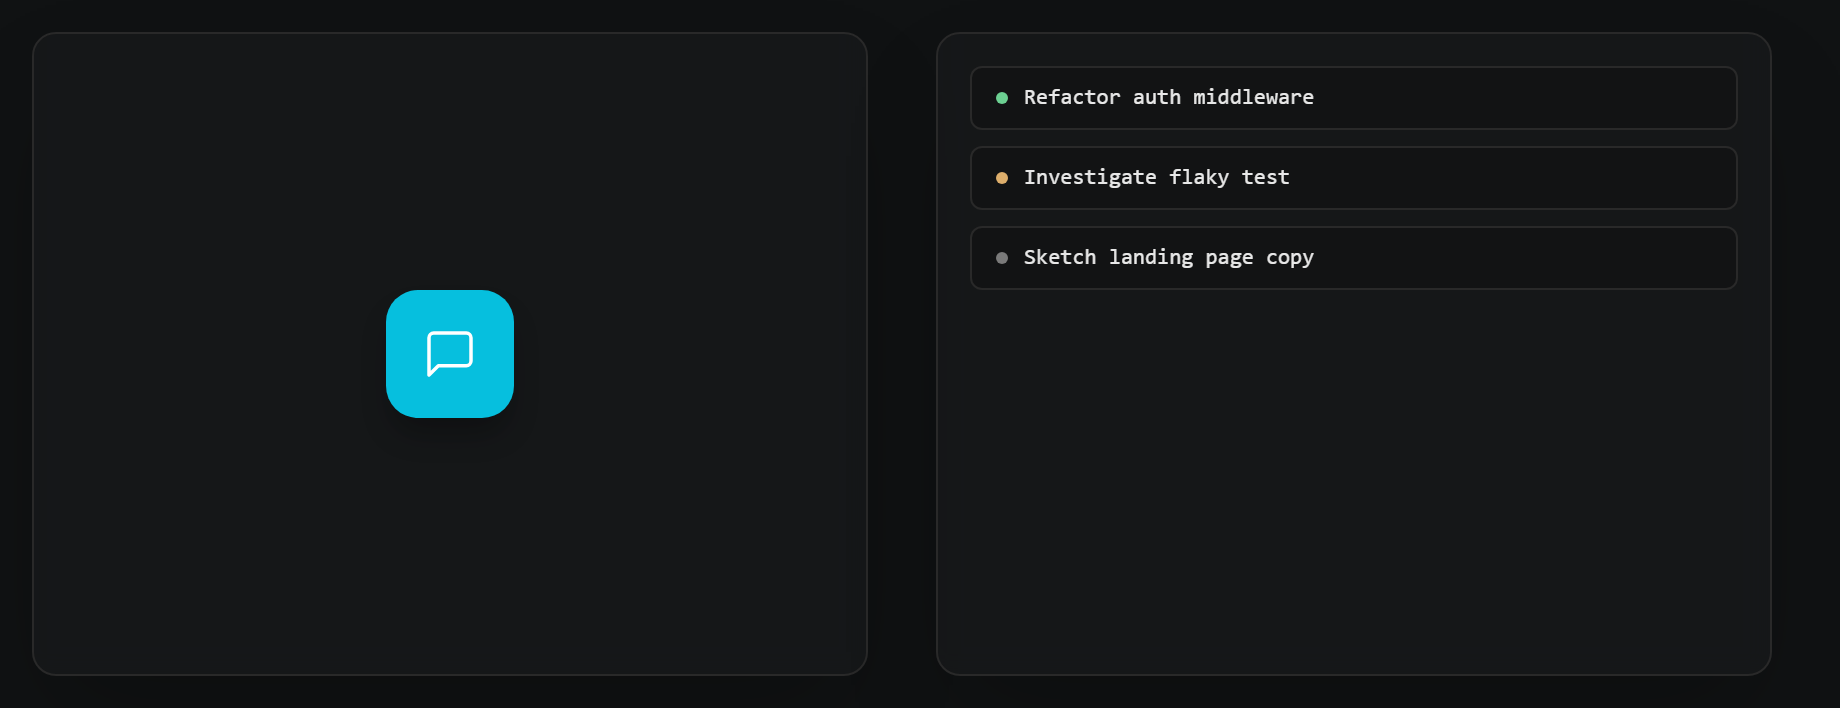
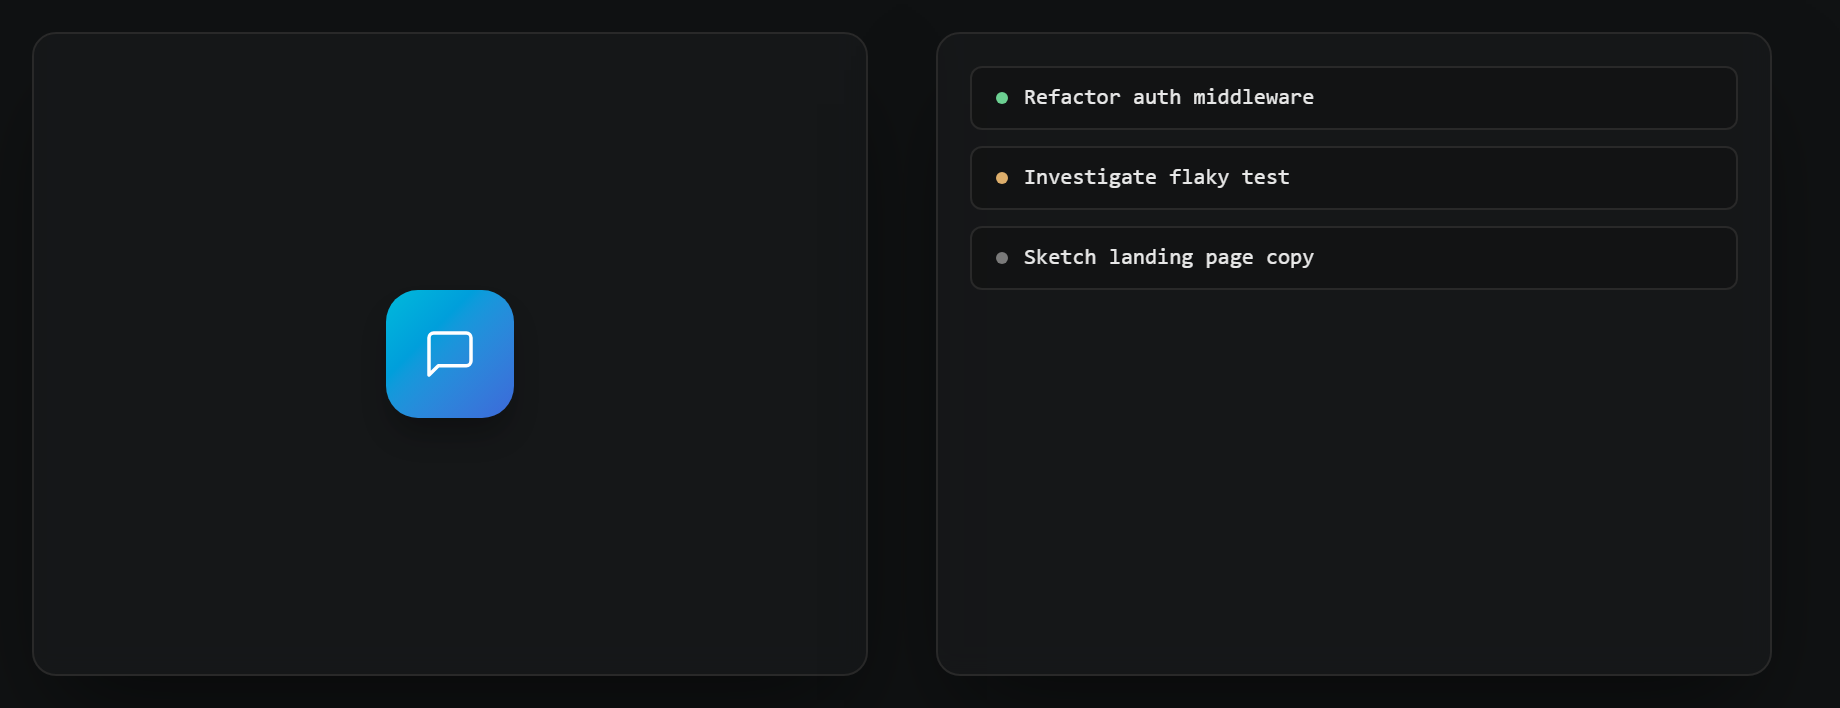
ui(tutorial): restore #293 welcome gradient + card shadow via tokens
Reviewer flagged the original #293 cleanup as a visible regression:
- the welcome icon's cyan->indigo gradient was collapsed to a flat
  bg-accent (single hue, lost depth)
- the deep, warm 0_24px_48px_-12px card shadow was replaced with the
  Tailwind shadow-xl preset, a much shallower drop.

Both were token-equivalent in code but not pixel-equivalent. #293's
goal was specifically to remove raw oklch() literals from class names,
so the fix is to keep the values as ornamental tokens and let
@theme resolve them per palette.

global.css gains two new tokens in both the dark default and the
html.theme-light override:
- --gradient-tutorial-welcome (cyan -> indigo, 135deg; light variant
  drops one lightness step so the white message glyph keeps AA on
  near-white surfaces)
- --shadow-tutorial-card (0 24px 48px -12px black/0.5 dark; warm
  oklch fade in light)

Tutorial.tsx applies them via inline style={{ background: 'var(...)' }}
and style={{ boxShadow: 'var(...)' }} — class-name route would need
arbitrary-value resolution and Tailwind v4 doesn't generate utilities
for var()-driven gradients/shadows for free. grep oklch
src/components/Tutorial* stays at zero.

probe-render-banner-switch-tutorial-287.mjs updated:
- TOKENS_CSS now declares the same two new variables so the static
  HTML probe stays in sync with global.css
- the .after welcome square + .tut-card shadow rules switch to var()
  references, restoring visual parity with the .before baseline
[…]

Changed region(s): [[0.1859, 0.404, 0.2788, 0.5904]]

diff --git a/src/styles/global.css b/src/styles/global.css
@@ -75,6 +75,14 @@
   --shadow-drag-overlay:
     0 12px 32px -8px oklch(0 0 0 / 0.5),
     0 0 0 1px oklch(1 0 0 / 0.08);
+  /* Tutorial-only ornamentals (#293). The first-run welcome icon needs a
+     two-stop accent gradient (cyan -> indigo) and the visual cards need a
+     deep, warm drop shadow that reads against the dark app surface. These
+     are too specific to belong in --color-accent / --surface-shadow but we
+     still want them as tokens so the light-mode override flows through. */
+  --gradient-tutorial-welcome:
+    linear-gradient(135deg, oklch(0.72 0.14 215) 0%, oklch(0.55 0.18 265) 100%);
+  --shadow-tutorial-card: 0 24px 48px -12px oklch(0 0 0 / 0.5);
   /* 2px focus halo. Token-driven so light mode can pull saturation/lightness
      down — the dark cyan stays vibrant on dark surfaces, but reads as a
      glaring teal smear on near-white. Each mode picks its own oklch(). */
@@ -324,6 +332,13 @@ html.theme-light {
   --shadow-drag-overlay:
     0 12px 32px -8px oklch(0.4 0.02 60 / 0.18),
     0 0 0 1px oklch(0 0 0 / 0.06);
+  /* Tutorial ornamentals — light variant. Drop one lightness step so the
+     white message glyph keeps AA contrast on the welcome bubble, and swap
+     the deep black card shadow for a softer warm one to match the rest of
+     the light surface stack. */
+  --gradient-tutorial-welcome:
+    linear-gradient(135deg, oklch(0.62 0.14 215) 0%, oklch(0.48 0.18 265) 100%);
+  --shadow-tutorial-card: 0 24px 48px -12px oklch(0.4 0.02 60 / 0.20);
   --color-focus-ring: oklch(0.55 0.15 215 / 0.55); /* a11y: boosted opacity for inline-rename + input focus visibility in light mode */
 
   --color-bg-app-foreground: var(--color-fg-primary);

diff --git a/src/components/Tutorial.tsx b/src/components/Tutorial.tsx
@@ -148,7 +148,10 @@ export function Tutorial({ onNewSession, onImport, onSkip }: Props) {
 
 function VisualCard({ children }: { children: React.ReactNode }) {
   return (
-    <div className="relative w-full max-w-sm aspect-[4/3] rounded-xl border border-border-subtle bg-bg-elevated/60 backdrop-blur p-4 shadow-xl">
+    <div
+      className="relative w-full max-w-sm aspect-[4/3] rounded-xl border border-border-subtle bg-bg-elevated/60 backdrop-blur p-4"
+      style={{ boxShadow: 'var(--shadow-tutorial-card)' }}
+    >
       {children}
     </div>
   );
@@ -162,7 +165,8 @@ function WelcomeVisual() {
           initial={{ scale: 0.9, opacity: 0 }}
           animate={{ scale: 1, opacity: 1 }}
           transition={{ delay: 0.15, duration: 0.4, ease: [0.32, 0.72, 0, 1] }}
-          className="flex h-16 w-16 items-center justify-center rounded-2xl bg-accent shadow-lg"
+          className="flex h-16 w-16 items-center justify-center rounded-2xl shadow-lg"
+          style={{ background: 'var(--gradient-tutorial-welcome)' }}
         >
           <MessageSquare size={28} className="text-white stroke-[1.5]" />
         </motion.div>

diff --git a/dogfood-logs/banner-switch-tutorial-287/README.md b/dogfood-logs/banner-switch-tutorial-287/README.md
@@ -27,9 +27,14 @@ primitive with track + thumb, announced as "switch".
 ## #293 — Tutorial raw oklch -> tokens
 
 Tutorial visuals previously hard-coded raw `oklch()` color literals (welcome
-gradient, session-row state dots, drop shadow). After: replaced with semantic
-tokens (`bg-accent`, `bg-state-running`, `bg-state-waiting`, `shadow-xl`)
-so light-theme overrides flow through automatically.
+gradient, session-row state dots, drop shadow). After: state dots ride the
+existing `--color-state-running` / `--color-state-waiting` tokens; the
+welcome icon's accent gradient and the visual-card drop shadow now resolve
+through two new ornamental tokens — `--gradient-tutorial-welcome` and
+`--shadow-tutorial-card` — defined in both the dark and light `@theme`
+blocks of `src/styles/global.css`. Visual parity with the pre-PR baseline
+is preserved (gradient cyan -> indigo, deep card shadow), and light-theme
+overrides flow through automatically.
 
 | Before | After |
 | --- | --- |
